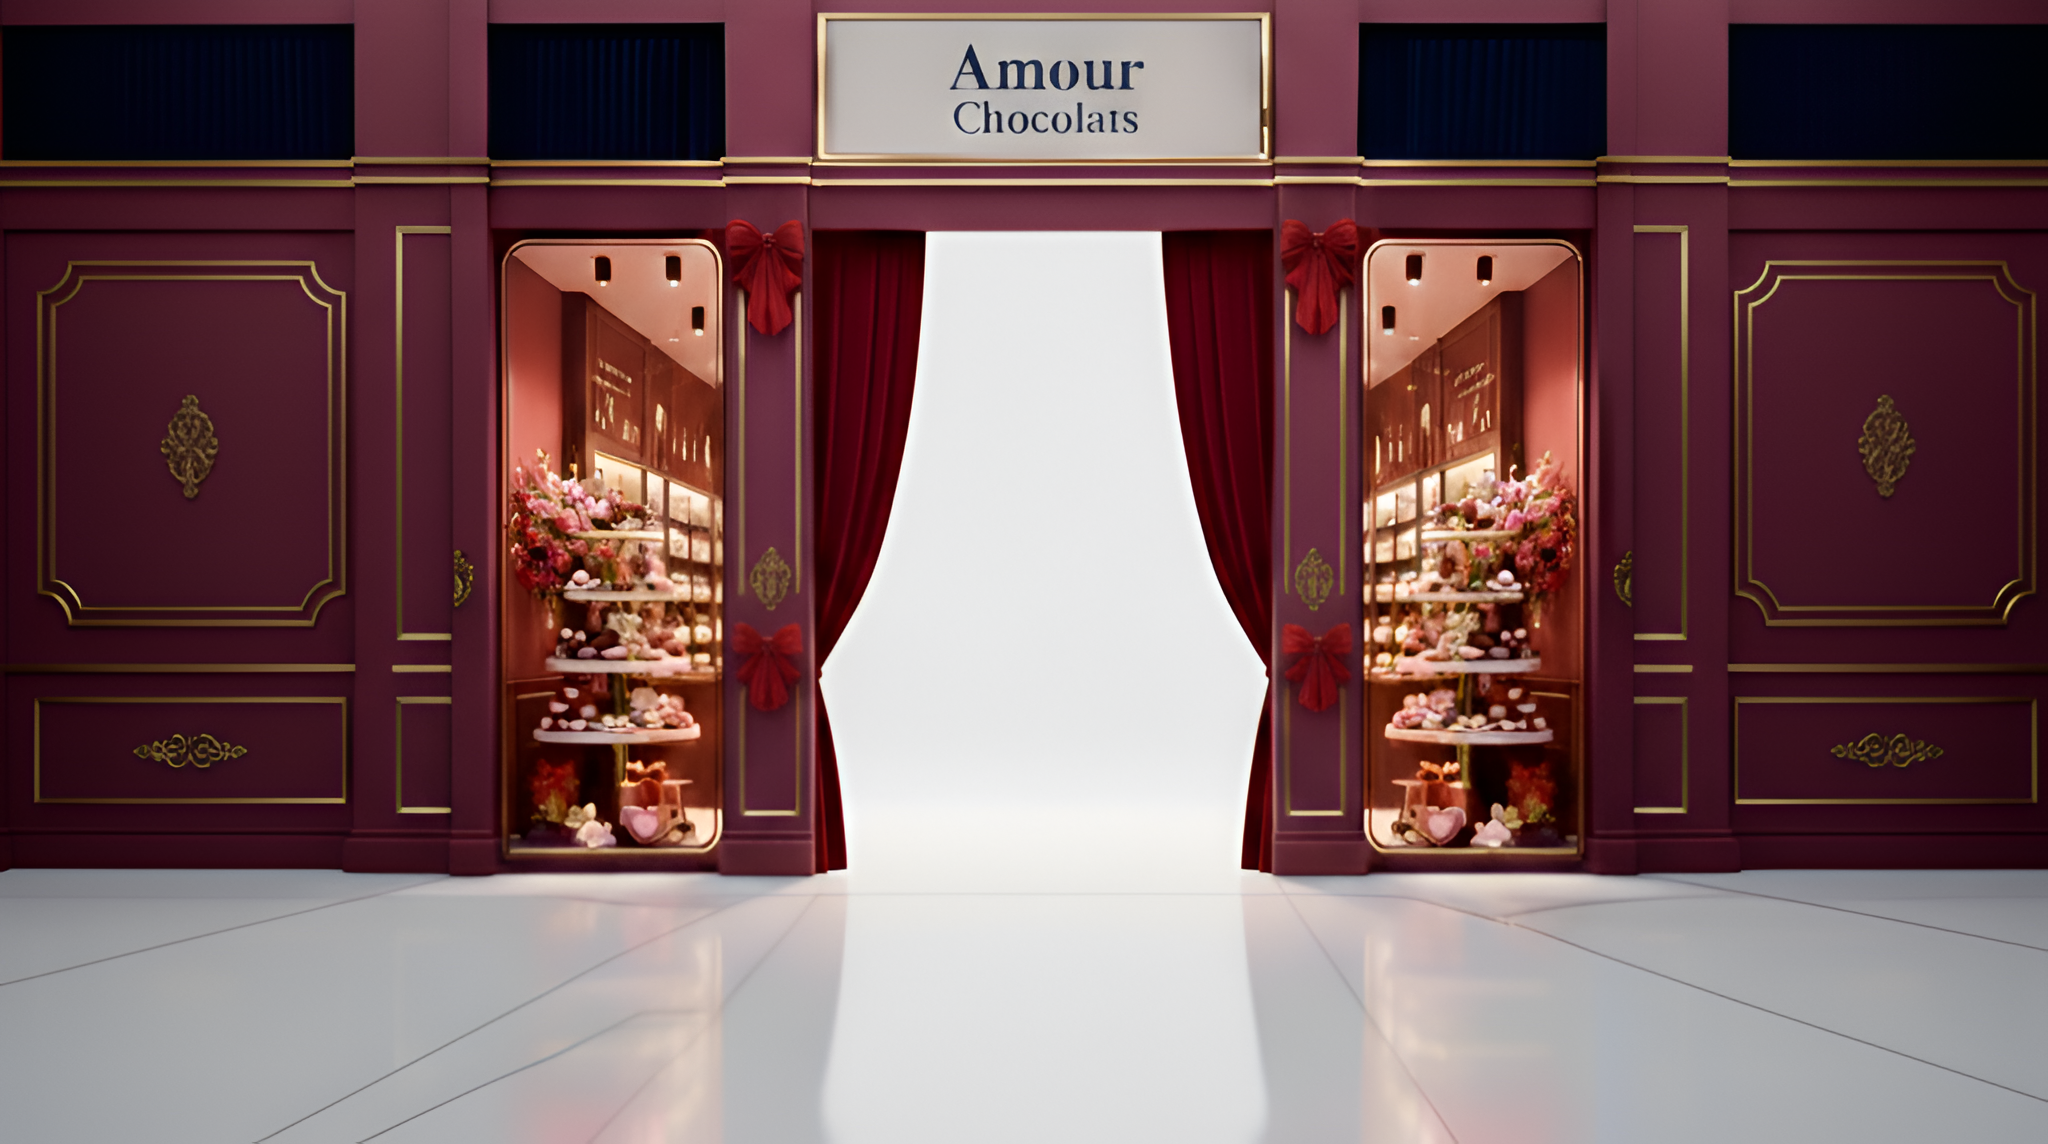
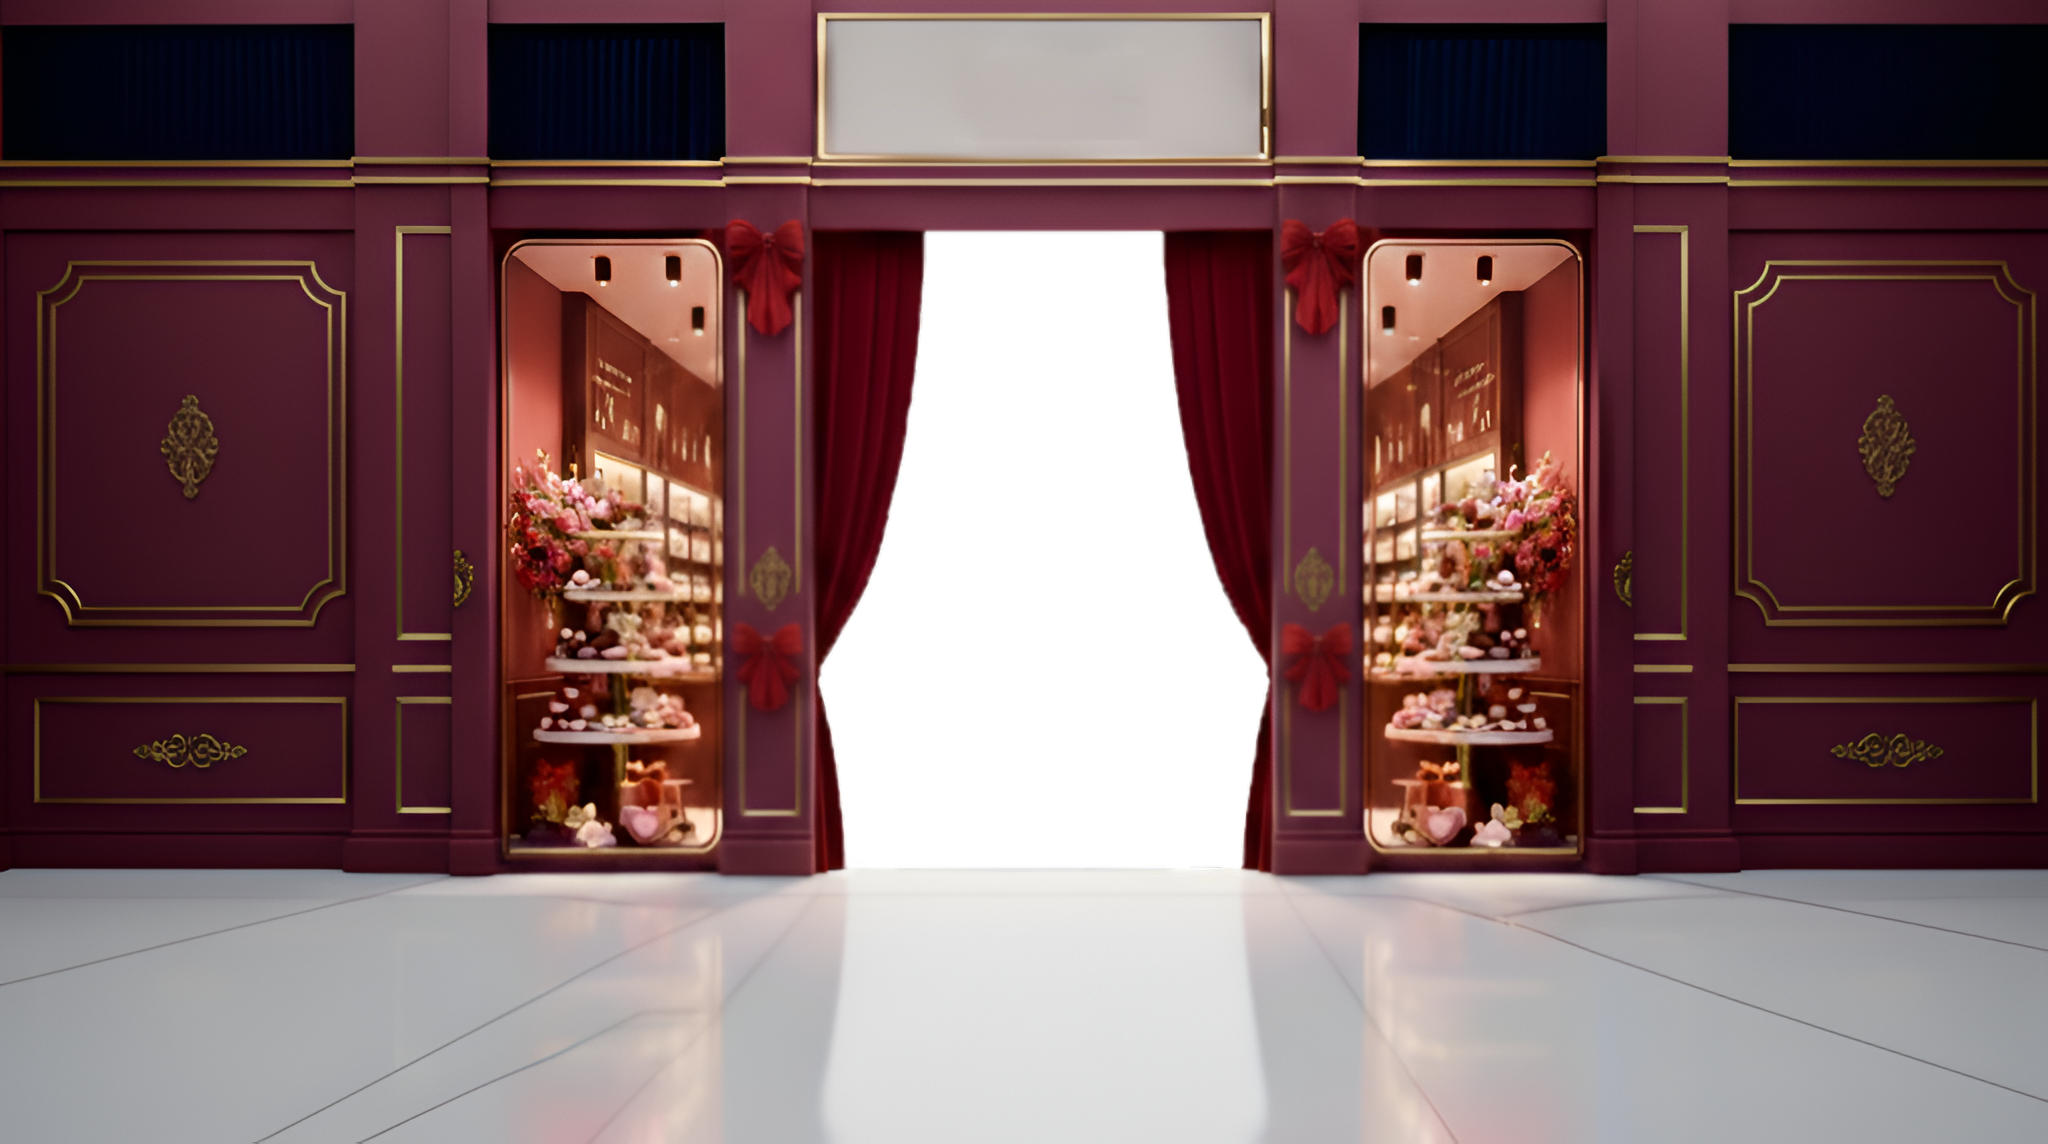
feat: hero animation

diff --git a/components/Hero.tsx b/components/Hero.tsx
@@ -34,7 +34,7 @@ const Hero: React.FC = () => {
       }}
     >
       {/* Button Container */}
-      <div className={`relative z-10 bottom-16 pb-12 sm:pb-16 transition-all duration-1000 ${
+      <div className={`relative z-10 bottom-8 pb-12 sm:pb-16 transition-all duration-1000 ${
         isActive ? 'opacity-100 transform translate-y-0' : 'opacity-0 transform translate-y-10'
       }`}>
         <button 
